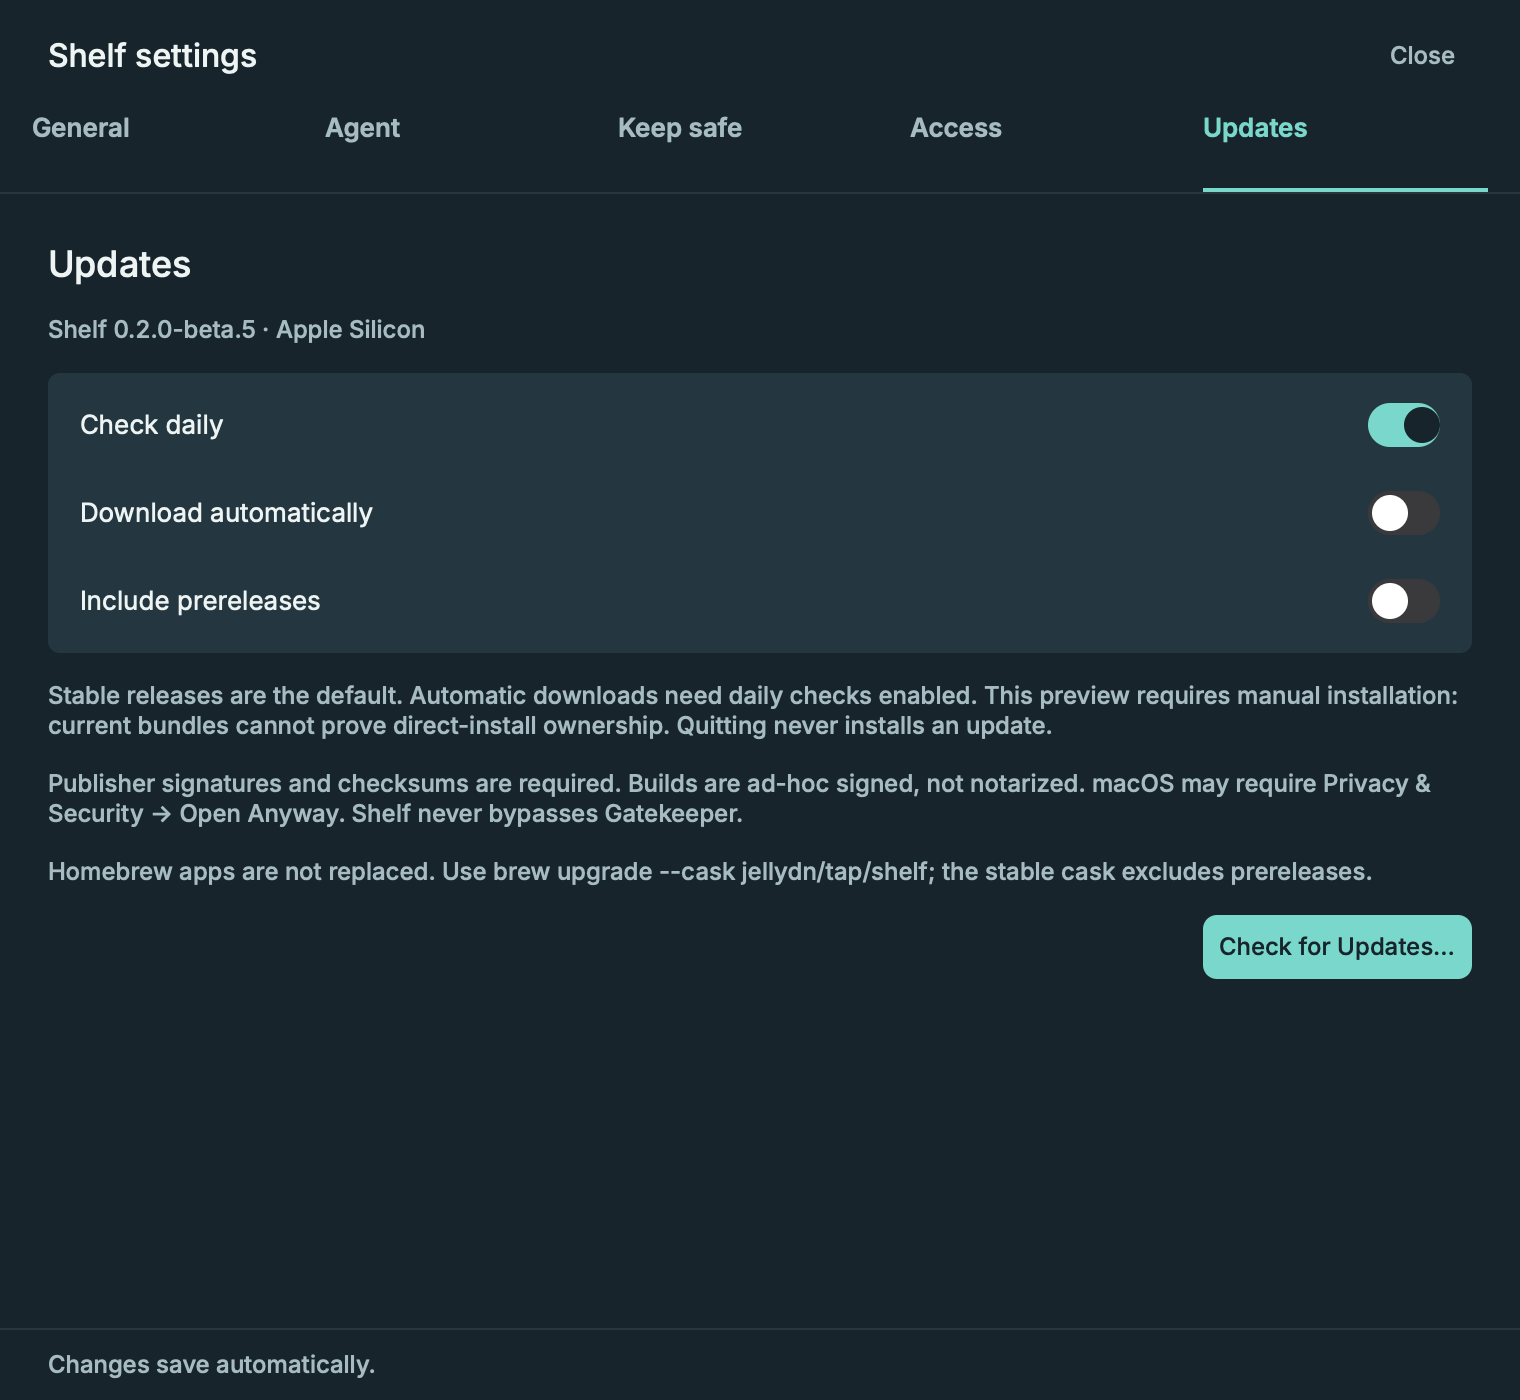
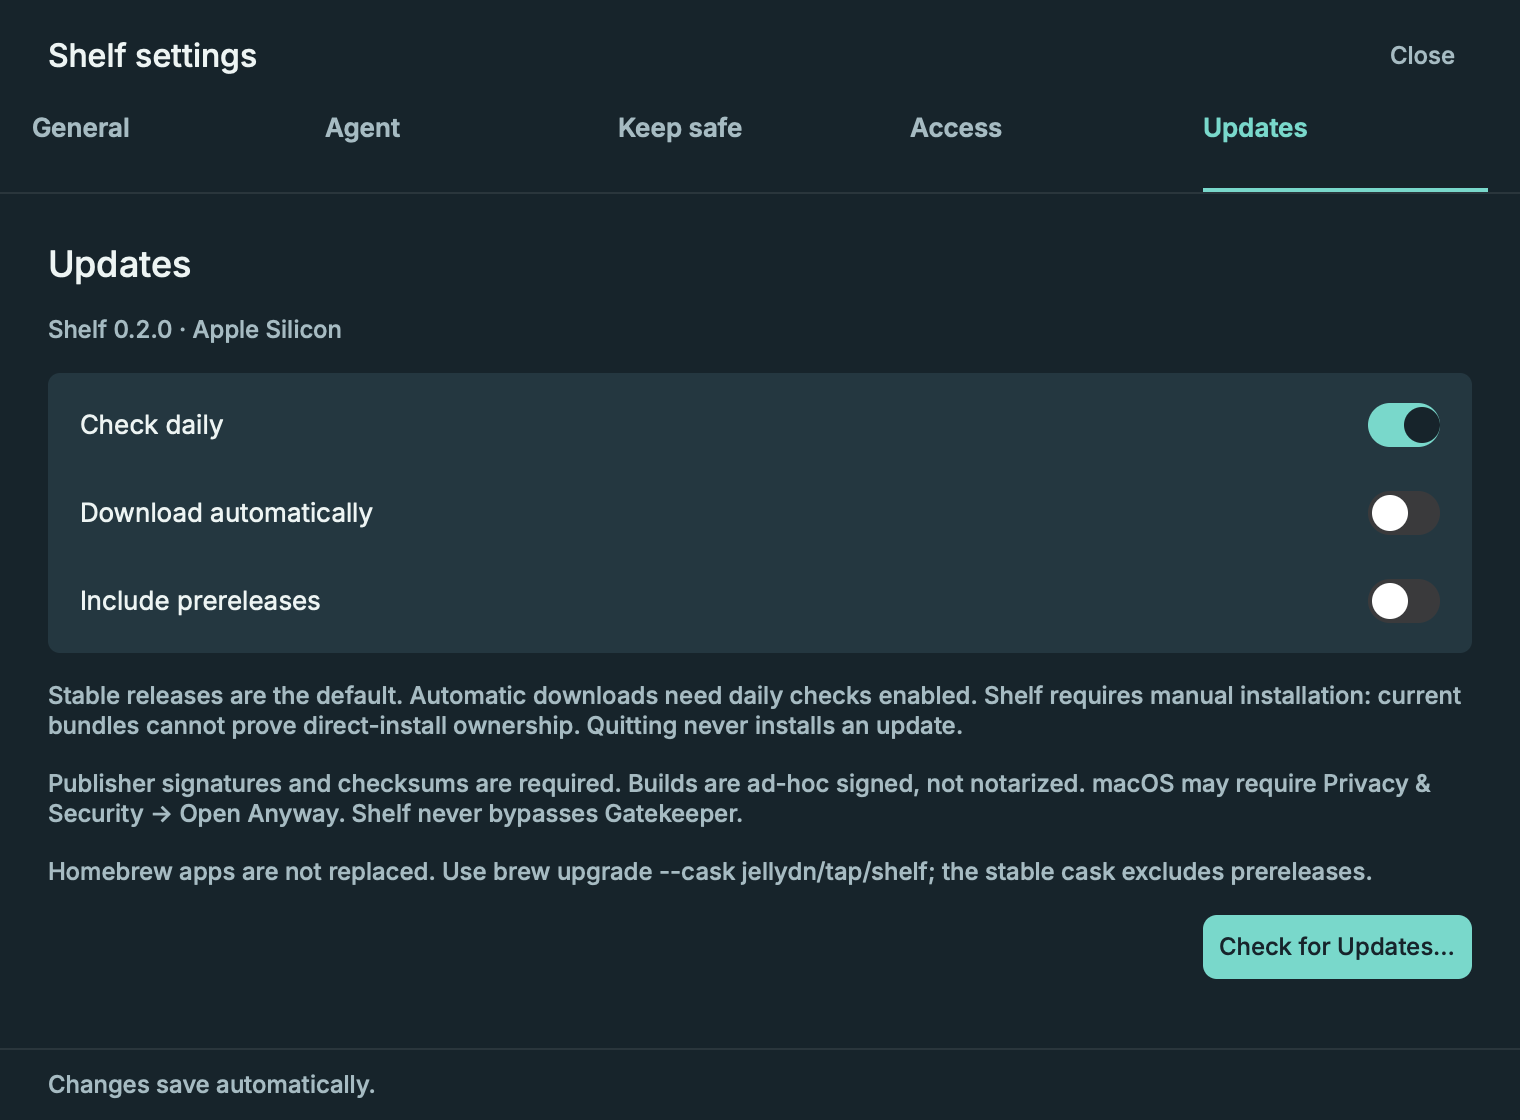
chore(release): publish stable 0.2.0
Promote Quick review to stable with current README and guide copy.
Keep native verification limits and manual-install policy explicit.
Publish only the matching release-note section, and refresh the
Updates screenshot without changing historical releases.

Amp-Thread-ID: https://ampcode.com/threads/T-01a1bdd5-a440-75b6-8deb-a9b846be7a2b

diff --git a/src/settings_updates.rs b/src/settings_updates.rs
@@ -21,7 +21,7 @@ pub(super) fn view(state: &Settings) -> El {
                 persist(s);
             })))
         ))
-        .child(text("Stable releases are the default. Automatic downloads need daily checks enabled. This preview requires manual installation: current bundles cannot prove direct-install ownership. Quitting never installs an update.")
+        .child(text("Stable releases are the default. Automatic downloads need daily checks enabled. Shelf requires manual installation: current bundles cannot prove direct-install ownership. Quitting never installs an update.")
             .font(type_::LABEL).color(paint(MUTED)).wrap().w_full())
         .child(text("Publisher signatures and checksums are required. Builds are ad-hoc signed, not notarized. macOS may require Privacy & Security → Open Anyway. Shelf never bypasses Gatekeeper.")
             .font(type_::LABEL).color(paint(MUTED)).wrap().w_full())

diff --git a/docs/guide.md b/docs/guide.md
@@ -1,28 +1,24 @@
-# Shelf prototype guide
+# Shelf guide
 
 Detailed implementation, usage and verification notes. Start with the [short README](../README.md).
 
 <img src="../assets/shelf-icon.png" width="128" height="128" alt="Shelf: a folder in an archive tray on a shelf">
 
-> Experimental WIP proof of concept for reviewing cleanup selections. Record choice (formerly Confirm) records a choice; it does not delete files or run cleanup.
+> Shelf reviews folder selections. Record choice records a choice; it does not delete files or run cleanup.
 
-## Current status and Levo credit
+## Current status
 
-[Levo](https://omggg.wtf/levo/) was the direct reference for Shelf's original UI, layout and interaction behavior, not just a general inspiration. That presentation remains in the published beta.2 and earlier releases. If you like this idea, please support Levo and consider buying it through its official site. Shelf is not affiliated with or endorsed by Levo.
+Shelf **0.2.0** is a stable release of the selection-review app, not a cleanup engine. Careful, Balanced and Aggressive presets preview which items are selected and their estimated footprint. **Record choice only records a choice in memory; Shelf does not delete the selected files.** Changing the selection or its exclusions clears the recorded indicator. An empty selection cannot be recorded.
 
-Shelf is an experimental **WIP PoC**, not a finished cleanup utility or a claim of Levo-equivalent cleanup safety. Careful, Balanced and Aggressive presets preview which items are selected and their estimated footprint. **Record choice only records a choice in memory; Shelf does not delete the selected files.** Changing the selection or its exclusions clears the recorded indicator. An empty selection cannot be recorded.
-
-The code in [PR #10](https://github.com/jellydn/shelf/pull/10) implements manual Ask Agent adapters, per-agent model settings, a bounded selected-folder reader, saved-session launchers and signed-update checks. Protocol stubs, headless UI tests and limited native metadata/download checks exercise these implementations. They do **not** establish end-to-end native model analysis, tool routing during a model turn, Terminal continuation, tray event routing, or actual update installation/restart and Gatekeeper behavior. The sections below describe this PR's code, which includes follow-ups not present in the published beta.1 assets.
-
-**Beta.3 previews the owner's chosen Review ledger direction**, with reasons and exclusions beside a non-deleting selection receipt and separate agent access. This first implementation is still under design review; beta.2 does not contain it. This one beta release does not authorize a merge, promotion or later releases. Attribution alone does not resolve the concern about the copied presentation. Earlier screenshots, releases and history are retained as provenance, not evidence of completed design or safety review.
+The app includes manual Ask Agent adapters, per-agent model settings, a bounded selected-folder reader, saved-session launchers and signed-update checks. Protocol stubs, headless UI tests and limited native metadata/download checks exercise these implementations. They do **not** establish end-to-end native model analysis, tool routing during a model turn, Terminal continuation, tray event routing, or actual update installation/restart and Gatekeeper behavior. Earlier screenshots, releases and history remain available; they are not evidence of completed safety review.
 
 <a name="quick-review-beta4-preview"></a>
 
-## Quick review (beta.6)
+## Quick review (0.2.0)
 
-The owner selected Quick review after comparing three independent prototypes. Beta.5 refines that direction with shorter labels, less repeated text and explicit Close controls. It keeps folder reasons, protection rules and every Agent capability; beta.3 retains the earlier ledger layout.
+Quick review has short labels, explicit Close controls, folder reasons, protection rules and optional Agent help.
 
-Beta.6 includes consistent button alignment and styles added after beta.5: filled Record choice, Apply model and update-check actions; outlined secondary actions; quiet navigation; and a warning style for removing an exclusion. A recorded choice becomes secondary. Empty-selection buttons are muted, do not take focus and have no press handler. Enabled buttons support Tab/Space, hover/press feedback and a visible focus ring. These refinements are not in the immutable beta.5 release. Beta.6 also caps protocol lines before parsing, bounds the message queue and counts newlines in the diagnostic log budget; completed reports retain their 256 KiB limit.
+The main actions use filled buttons: Record choice, Apply model and update checks. Secondary actions are outlined; navigation is quiet; removing an exclusion uses a warning style. A recorded choice becomes secondary. Empty-selection buttons are muted, do not take focus and have no press handler. Enabled buttons support Tab/Space, hover/press feedback and a visible focus ring. Agent protocol lines are capped before parsing, the message queue is bounded and newline bytes count toward the diagnostic log budget. Completed reports have a 256 KiB limit.
 
 The panel opens from the menu bar and stays open across pointer movement, outside clicks and transient update dialogs. Use **Close**, Escape or the menu-bar button to hide it. Escape closes Actions first. Settings also has Close and Escape. The native update helper orders out its alert and restores its presenter's focus without reopening a window that was explicitly closed. Policy/callback regressions cover dismissal; headless renders do not prove the full native popup flow.
 
@@ -74,7 +70,7 @@ Historical presentation: [original panel](../shots/tray.png), [original Protecte
 
 The bundled app uses [Shelf.icns](../assets/Shelf.icns), generated from the Painter-designed [app icon](../assets/shelf-icon.png). The matching small-size [favicon](../assets/favicon.svg) uses the same teal, amber and cream shapes. [ICO](../assets/favicon.ico), [PNG](../assets/favicon.png), Apple touch/PWA icons and [web manifest](../assets/site.webmanifest) are in `assets/` for documentation sites; GitHub controls its own browser favicon. Regenerate with `uv run --with pillow scripts/icons.py` on macOS. Normal builds copy the committed ICNS and need no image-generation tools.
 
-## Implemented prototype features
+## Features
 
 - Menu-bar review ledger with compact live memory, CPU, GPU and free-space readings
 - Candidate selection reasons, exclusions and an estimated-footprint receipt; no reclaimed-space claim
@@ -138,9 +134,9 @@ Update metadata expires one year after signing. Publish a new release or explici
 
 ## Install
 
-For Apple Silicon Macs running macOS 14 or later, find DMG and ZIP downloads on the [releases page](https://github.com/jellydn/shelf/releases). Choose [beta.6](https://github.com/jellydn/shelf/releases/tag/v0.2.0-beta.6) for refined Quick review and bounded agent transport; [beta.4](https://github.com/jellydn/shelf/releases/tag/v0.2.0-beta.4) is the earlier Quick review preview. [Beta.3](https://github.com/jellydn/shelf/releases/tag/v0.2.0-beta.3) retains the earlier Review ledger layout. Existing releases and assets are not replaced.
+For Apple Silicon Macs running macOS 14 or later, get the DMG or ZIP from the [0.2.0 stable release](https://github.com/jellydn/shelf/releases/tag/v0.2.0). Check `SHA256SUMS`. Existing releases and assets are not replaced.
 
-For the older stable version (not the beta):
+Or install the stable release through Homebrew. Its cask checks for new stable versions every six hours and can lag behind publication:
 
 ```sh
 brew install --cask jellydn/tap/shelf

diff --git a/RELEASE_NOTES.md b/RELEASE_NOTES.md
@@ -1,3 +1,28 @@
+## Shelf 0.2.0 — Quick review
+
+**Stable release for Apple Silicon, macOS 14+.** Review folder selections, reasons and exclusions from the menu bar. **Record choice saves a selection in memory; it never deletes files or runs cleanup.** Sizes are estimates, not reclaimed space.
+
+- Quick review has compact and wide layouts, visible protection reasons, optional Agent help, fixed recording/system readings and explicit Close controls. Main actions, secondary actions and warnings have distinct button styles, with keyboard focus and Space activation.
+- Manual Ask Agent supports per-provider model settings, explicit start/path-sharing permissions, a bounded selected-folder reader, progress/Cancel, errors/Retry and success-only saved chat. Provider costs and data policies apply; no provider starts automatically.
+- Agent protocol lines are bounded to 2 MiB before parsing, the message queue holds at most eight messages, and diagnostic allocation/log budgets are bounded. Regression checks cover oversized unterminated output and blank-line flooding. Completed reports retain their 256 KiB cap.
+- All seven codebase map documents were regenerated from current source on 2026-11-09. The README and guide now describe stable 0.2.0 and its limits.
+- Daily publisher-verified update checks and opt-in downloads remain available. All current installs are **manual-update-only**; Homebrew installs use Homebrew. There is no automatic replacement or install-on-quit.
+
+### Verification and known limits
+
+Release checks cover formatting, Clippy, the full macOS Rust suite, native updater self-tests, packaging, arm64 architecture and code signatures. Dedicated Shelf Ed25519 signatures protect the metadata and archives. Published assets must also be downloaded again and verified against `SHA256SUMS`, GitHub asset digests and the committed publisher public key.
+
+**Settings→tray reopening remains an unresolved native report.** Its cause and a native fix are not verified. Headless layouts and callback tests do not establish full native tray behavior. Real model/tool turns, native Terminal continuation and actual install/restart/Gatekeeper behavior remain unverified. Provider controls are not an OS sandbox. No real model request, installed-app replacement or cleanup is part of release verification.
+
+Builds are **ad-hoc signed, not Developer ID signed or notarized**. Use normal macOS approval if required; Shelf does not bypass Gatekeeper. The stable label does not remove these limits.
+
+### Manual test checklist
+
+1. Test initial tray-open, Settings→tray, outside clicks, Close, Escape and tray toggle separately. Report failed steps and macOS version.
+2. Choose eligible folders and Record choice. Nothing is deleted. Change the selection: the record clears. Protected/in-use folders stay excluded.
+3. Check compact/wide layouts, keyboard focus/Space, model Apply and explicit request/path-sharing permissions. No agent starts automatically.
+4. Only with separate provider cost/data consent, test analysis, Cancel, errors/Retry and saved-chat continuation. Stubs do not establish native model-turn coverage.
+
 ## Shelf 0.2.0-beta.6 — Fresh source map and bounded agent transport
 
 **Experimental prerelease, not latest. Record choice saves a selection in memory; it never deletes files or runs cleanup.** This release uses current main after PR #13 merged. Stable/Homebrew and earlier release assets are unchanged.

diff --git a/README.md b/README.md
@@ -2,19 +2,19 @@
 
 <img src="assets/shelf-icon.png" width="96" height="96" alt="Shelf app icon">
 
-A macOS menu-bar prototype for reviewing folder selections, reasons and exclusions, with optional agent analysis.
+A macOS menu-bar app for reviewing folder selections, reasons and exclusions, with optional agent analysis.
 
-**Experimental WIP. Record choice (formerly Confirm) records a selection in memory. It never deletes files or runs cleanup.** Sizes are estimates, not reclaimed space. [PR #13](https://github.com/jellydn/shelf/pull/13)'s Review ledger is a first independent presentation, still under review.
+**Record choice records a selection in memory. It never deletes files or runs cleanup.** Sizes are estimates, not reclaimed space.
 
-Quick review below shows the current source, including the button refinements in beta.6. Beta.6 also bounds agent transport and refreshes all seven codebase map documents.
+Version **0.2.0** brings Quick review, folder protections, manual agent help and publisher-verified update checks. Agent transport is bounded, and all seven [codebase map documents](.planning/codebase/ARCHITECTURE.md) reflect the current source.
 
 ![Quick review preview with synthetic example data](shots/review-ledger.png)
 
 ## Install
 
-Apple Silicon, macOS 14+. Get the DMG or ZIP from the [beta.6 prerelease](https://github.com/jellydn/shelf/releases/tag/v0.2.0-beta.6) and check `SHA256SUMS`. Builds are ad-hoc signed, **not notarized**; macOS may require **Privacy & Security → Open Anyway**. Publisher signatures are not Apple approval.
+Apple Silicon, macOS 14+. Get the DMG or ZIP from the [0.2.0 stable release](https://github.com/jellydn/shelf/releases/tag/v0.2.0) and check `SHA256SUMS`. Builds are ad-hoc signed, **not notarized**; macOS may require **Privacy & Security → Open Anyway**. Publisher signatures are not Apple approval.
 
-For the older stable version, not this beta:
+Or install the stable release through Homebrew. The cask checks for new stable versions every six hours, so it can lag behind a new release.
 
 ```sh
 brew install --cask jellydn/tap/shelf
@@ -45,9 +45,7 @@ These current Rune renders use example Agent states, not real model turns or nat
 - Tests/headless renders are not native end-to-end proof. Tray routing, model/tool turns, Terminal continuation and real install/restart/Gatekeeper behavior remain unverified. Cleanup safety is not established.
 - Settings→tray reopening remains a separate known issue; the popup changes do not establish a fix for it.
 
-## Credit and details
-
-[Levo](https://omggg.wtf/levo/) was the direct UI/layout/behavior reference for beta.2 and earlier. Please support or buy Levo. Shelf is unaffiliated and not endorsed; credit does not resolve the earlier copied-presentation concern or establish equivalent safety.
+## Details
 
 [Full guide and historical screenshots](docs/guide.md) · [Agent boundary](docs/adr/0001-scoped-agent-sessions.md) · [Update policy](docs/adr/0002-publisher-verified-updates.md) · [Release notes](RELEASE_NOTES.md)
 

diff --git a/.planning/codebase/INTEGRATIONS.md b/.planning/codebase/INTEGRATIONS.md
@@ -37,7 +37,7 @@ Shelf publisher identity comes from `native/update-public-key.txt`. Ad-hoc Apple
 
 **Hosting:** GitHub Releases for `jellydn/shelf`. The stable Homebrew cask is maintained separately in `jellydn/homebrew-tap`; beta releases do not update it (`AGENTS.md`).
 
-**CI Pipeline:** `.github/workflows/ci.yml` checks formatting, Clippy, tests and packaging on `macos-26`. `.github/workflows/release.yml` does the same for matching `v*` tags, then signs metadata/ZIP/DMG and independently verifies them before publication. Prerelease tags set `prerelease: true` and `make_latest: false`.
+**CI Pipeline:** `.github/workflows/ci.yml` checks formatting, Clippy, tests and packaging on `macos-26`. `.github/workflows/release.yml` does the same for matching `v*` tags, then signs metadata/ZIP/DMG and independently verifies them before publication. Only the current tag's section of `RELEASE_NOTES.md` is published; a mismatched heading fails. Prerelease tags set `prerelease: true` and `make_latest: false`; stable tags set latest.
 
 ## Environment Configuration
 

diff --git a/.planning/codebase/CONCERNS.md b/.planning/codebase/CONCERNS.md
@@ -64,7 +64,7 @@ Fresh source audit of the whole repository. Findings below distinguish fixed def
 
 ## Missing Critical Features
 
-**No cleanup/delete engine:** Intentional: `src/main.rs` only records an eligible choice. This is a prototype, not a production cleanup utility. Do not add deletion as an audit fix.
+**No cleanup/delete engine:** Intentional: `src/main.rs` only records an eligible choice. Stable 0.2.0 is a selection-review app, not a cleanup utility. Do not add deletion as an audit fix.
 
 **Preview conveniences:** No persistent download-ready indicator or automatic rollback pruning (`native/Updater.swift`, `src/settings_updates.rs`). A later manual check gives download guidance. `src/palette.rs` stores an alerts-paused notice/deadline, but no periodic agent-analysis scheduler exists. None authorizes automatic paid requests or deleting old backups.
 

diff --git a/docs/adr/0002-publisher-verified-updates.md b/docs/adr/0002-publisher-verified-updates.md
@@ -5,6 +5,7 @@ Date: 2026-11-07
 ## Status
 Accepted by the owner for the prerelease. No Apple Developer account is available.
 Amended 2026-11-08: unknown-origin installations are manual-update-only. One current-state beta.2 prerelease is authorized; promotion and subsequent releases remain paused.
+Amended 2026-11-09: the owner authorizes stable 0.2.0 and current documentation updates. The manual-update-only rule and all publisher, consent and verification requirements remain unchanged.
 
 ## Context
 Shelf needs update checks and optional downloads without automatic install/restart or a paid Apple account. Oak provides a working Ed25519/signing-secret pattern, but Sparkle's automatic-download path can install on quit, which conflicts with the approved policy.
